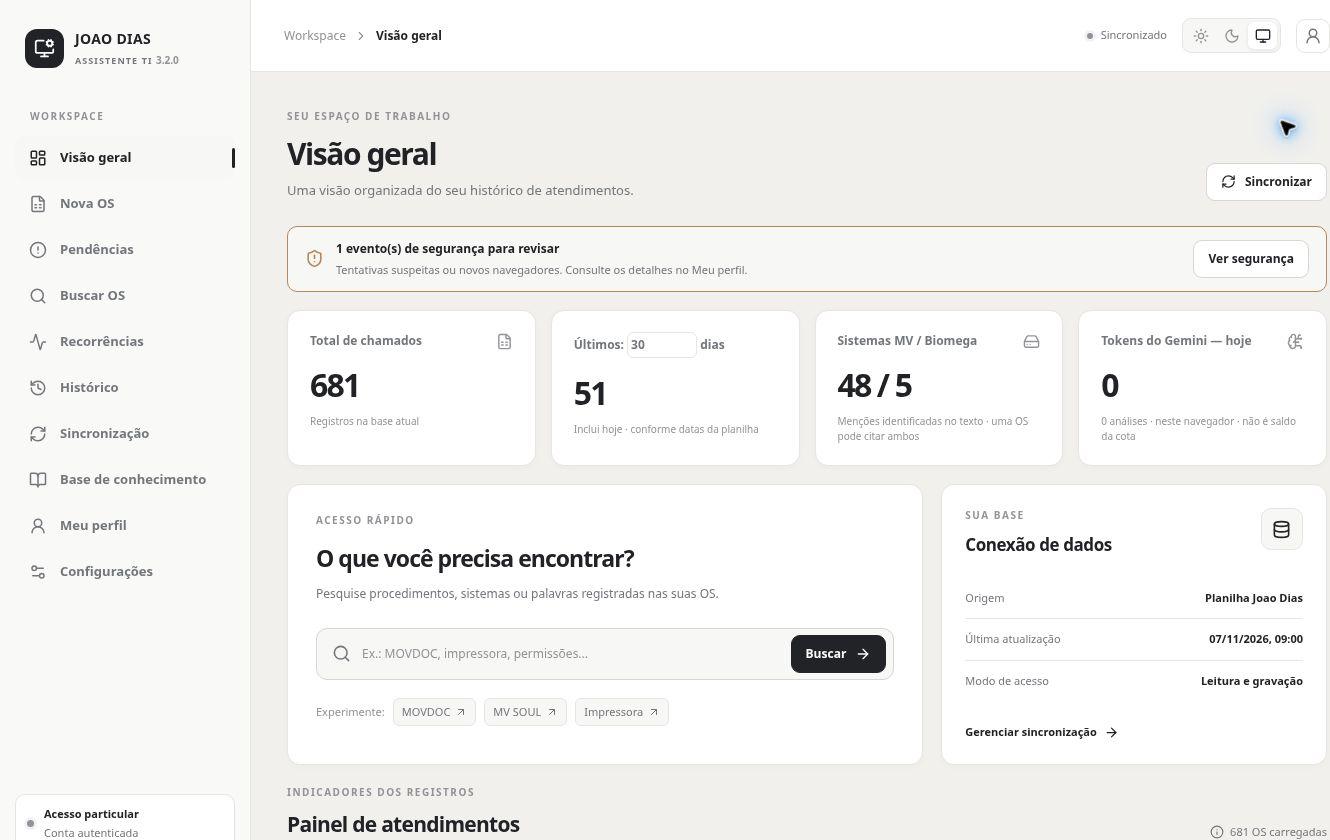
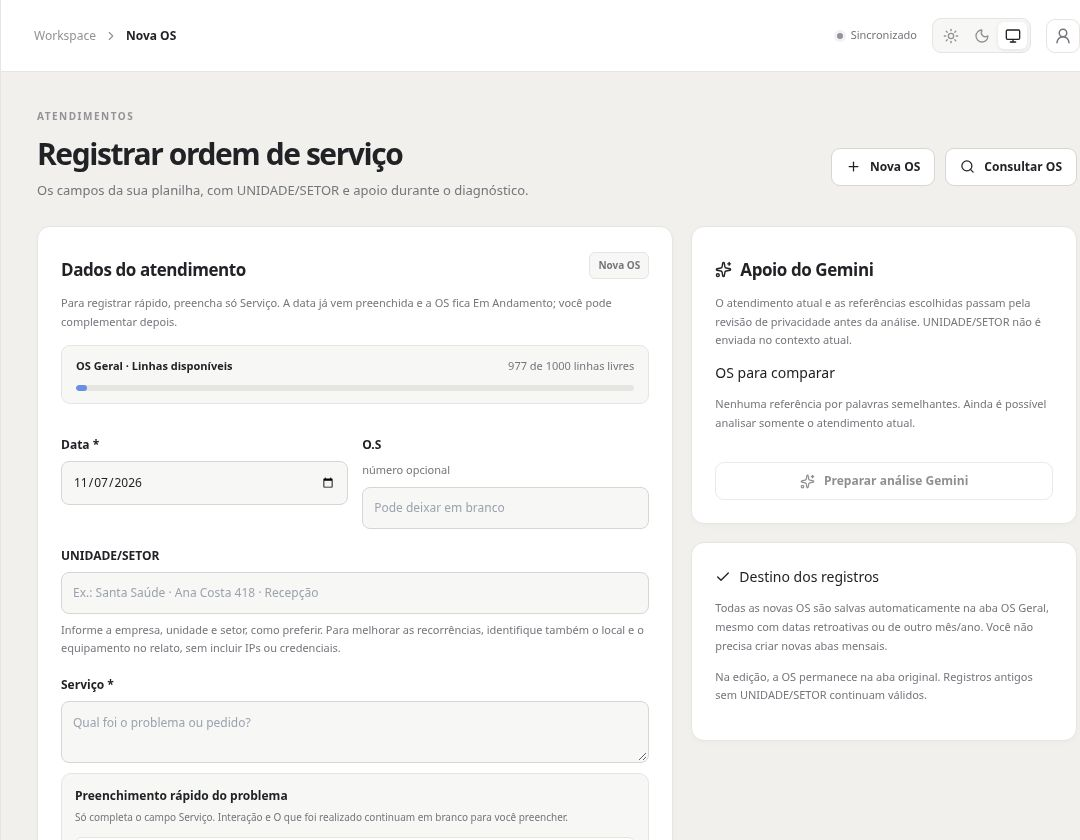
privacy: show empty Assistente form without account or service records

diff --git a/src/App.tsx b/src/App.tsx
@@ -90,7 +90,7 @@ function FeaturedProject({ project, index }: { project: Project; index: number }
     <div className="project-overview"><div className="project-topline"><span className="project-index">0{index + 1}</span><span className="project-icon" aria-hidden="true">{project.icon}</span></div><p className="project-category">{project.category}</p><h3 id={`${project.id}-title`}>{project.title}</h3><p className="project-description">{project.description}</p><ul className="tags" aria-label="Tecnologias">{project.tags.map(t => <li key={t}>{t}</li>)}</ul>
       <div className="project-actions">{project.id === 'turnoextra' ? <TurnoBehindScenes /> : <ProjectBehindScenes project={project.title} />}<External className="text-link" href={project.url}>{project.id === 'assistente-ti' ? 'Ver apresentação pública' : 'Abrir aplicação'}</External></div>
     </div>
-    <div className="project-evidence">{<figure className="project-capture"><a href={project.id === 'turnoextra' ? '/projects/turnoextra.jpg' : project.id === 'fraudlens' ? '/projects/fraudlens-1.4.0.jpg' : '/projects/assistente-interface-original.jpg'} target="_blank" rel="noopener noreferrer"><img src={project.id === 'turnoextra' ? '/projects/turnoextra.jpg' : project.id === 'fraudlens' ? '/projects/fraudlens-1.4.0.jpg' : '/projects/assistente-interface-original.jpg'} alt={project.id === 'turnoextra' ? 'Página pública do TurnoExtra' : project.id === 'fraudlens' ? 'FraudLens 1.4.0 publicado, com domínio explicado e visual roxo' : 'Captura da interface original do Assistente de TI, com o contato da conta e os relatos das OS fora do enquadramento'} loading="lazy" decoding="async" width="1348" height="926" /></a><figcaption>{project.id === 'turnoextra' ? 'Página pública do aplicativo' : project.id === 'fraudlens' ? 'FraudLens 1.4.0 · captura da página pública' : 'Interface original do Assistente de TI · contato e relatos fora do enquadramento'} · {project.id === 'turnoextra' ? 'captura de 28/10/2026' : (project.id === 'assistente-ti' ? '07/11/2026' : '06/11/2026')}</figcaption></figure>}<div className="project-flow" aria-label="Fluxo do projeto">{ev.flow.map((s, i) => <span key={s}><small>0{i + 1}</small>{s}{i < ev.flow.length - 1 && <ChevronRight size={14} aria-hidden="true" />}</span>)}</div>
+    <div className="project-evidence">{<figure className="project-capture"><a href={project.id === 'turnoextra' ? '/projects/turnoextra.jpg' : project.id === 'fraudlens' ? '/projects/fraudlens-1.4.0.jpg' : '/projects/assistente-interface-original.jpg'} target="_blank" rel="noopener noreferrer"><img src={project.id === 'turnoextra' ? '/projects/turnoextra.jpg' : project.id === 'fraudlens' ? '/projects/fraudlens-1.4.0.jpg' : '/projects/assistente-interface-original.jpg'} alt={project.id === 'turnoextra' ? 'Página pública do TurnoExtra' : project.id === 'fraudlens' ? 'FraudLens 1.4.0 publicado, com domínio explicado e visual roxo' : 'Interface original do Assistente de TI: formulário sem dados pessoais ou relatos de atendimentos'} loading="lazy" decoding="async" width="1348" height="926" /></a><figcaption>{project.id === 'turnoextra' ? 'Página pública do aplicativo' : project.id === 'fraudlens' ? 'FraudLens 1.4.0 · captura da página pública' : 'Interface original · formulário sem dados pessoais ou relatos de atendimentos'} · {project.id === 'turnoextra' ? 'captura de 28/10/2026' : (project.id === 'assistente-ti' ? '07/11/2026' : '06/11/2026')}</figcaption></figure>}<div className="project-flow" aria-label="Fluxo do projeto">{ev.flow.map((s, i) => <span key={s}><small>0{i + 1}</small>{s}{i < ev.flow.length - 1 && <ChevronRight size={14} aria-hidden="true" />}</span>)}</div>
       <div className="project-story"><div><h4>O problema</h4><p>{ev.problem}</p></div><div><h4>O que construí</h4><p>{ev.solution}</p></div></div>
       <div className="evidence-block"><h4><Check size={15} aria-hidden="true" /> Evidências para conferir</h4><p>{ev.verification}</p><div className="evidence-links">{ev.links.map(l => <External href={l.href} key={l.href}>{l.label}</External>)}{ev.post && <External href={ev.post}>Publicação no LinkedIn</External>}</div></div>
       <CaseStudy title={project.title} />
